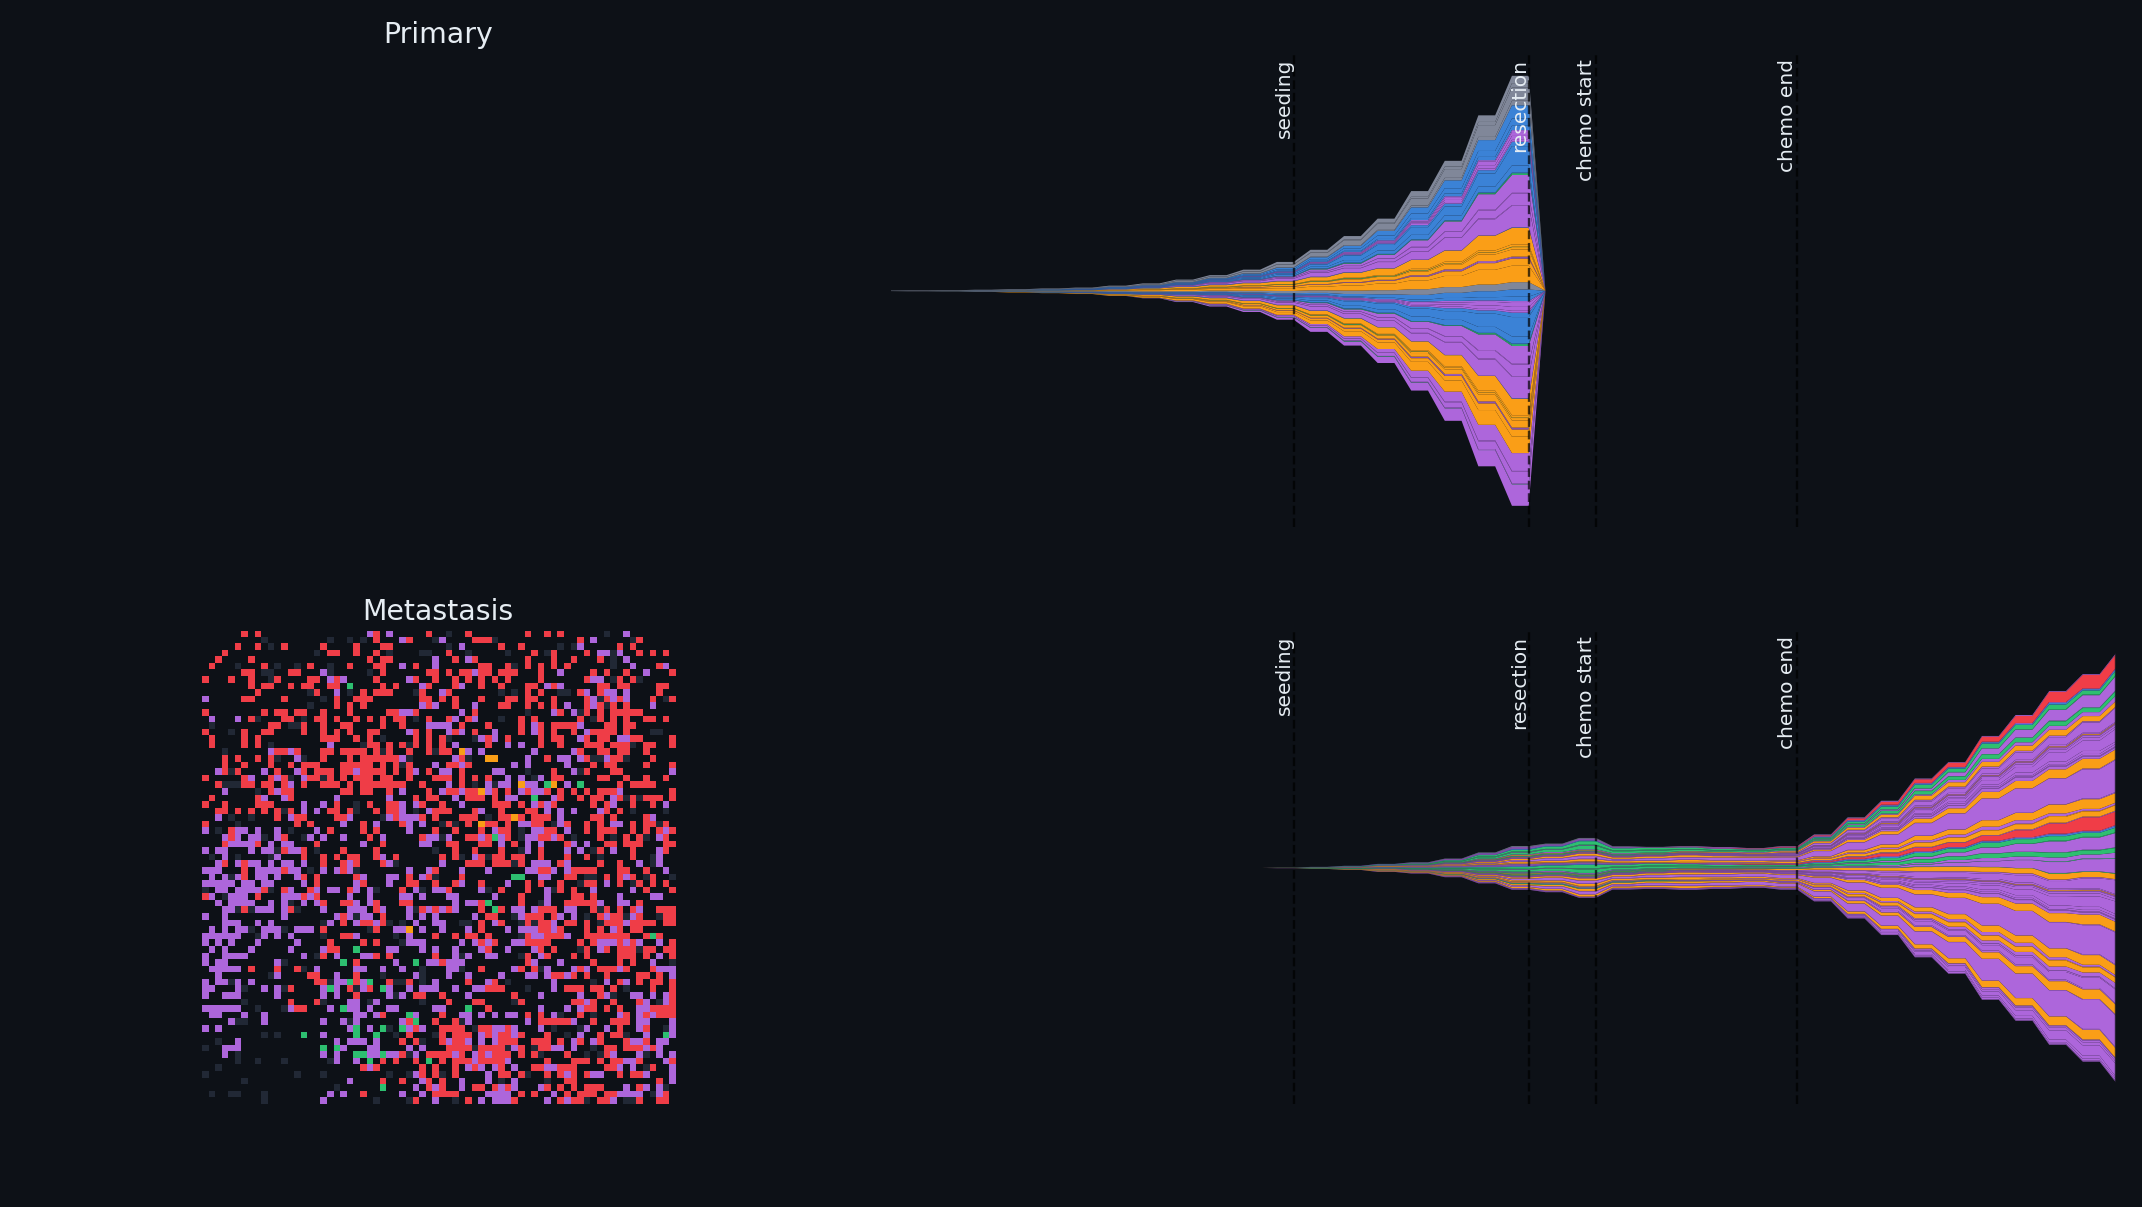
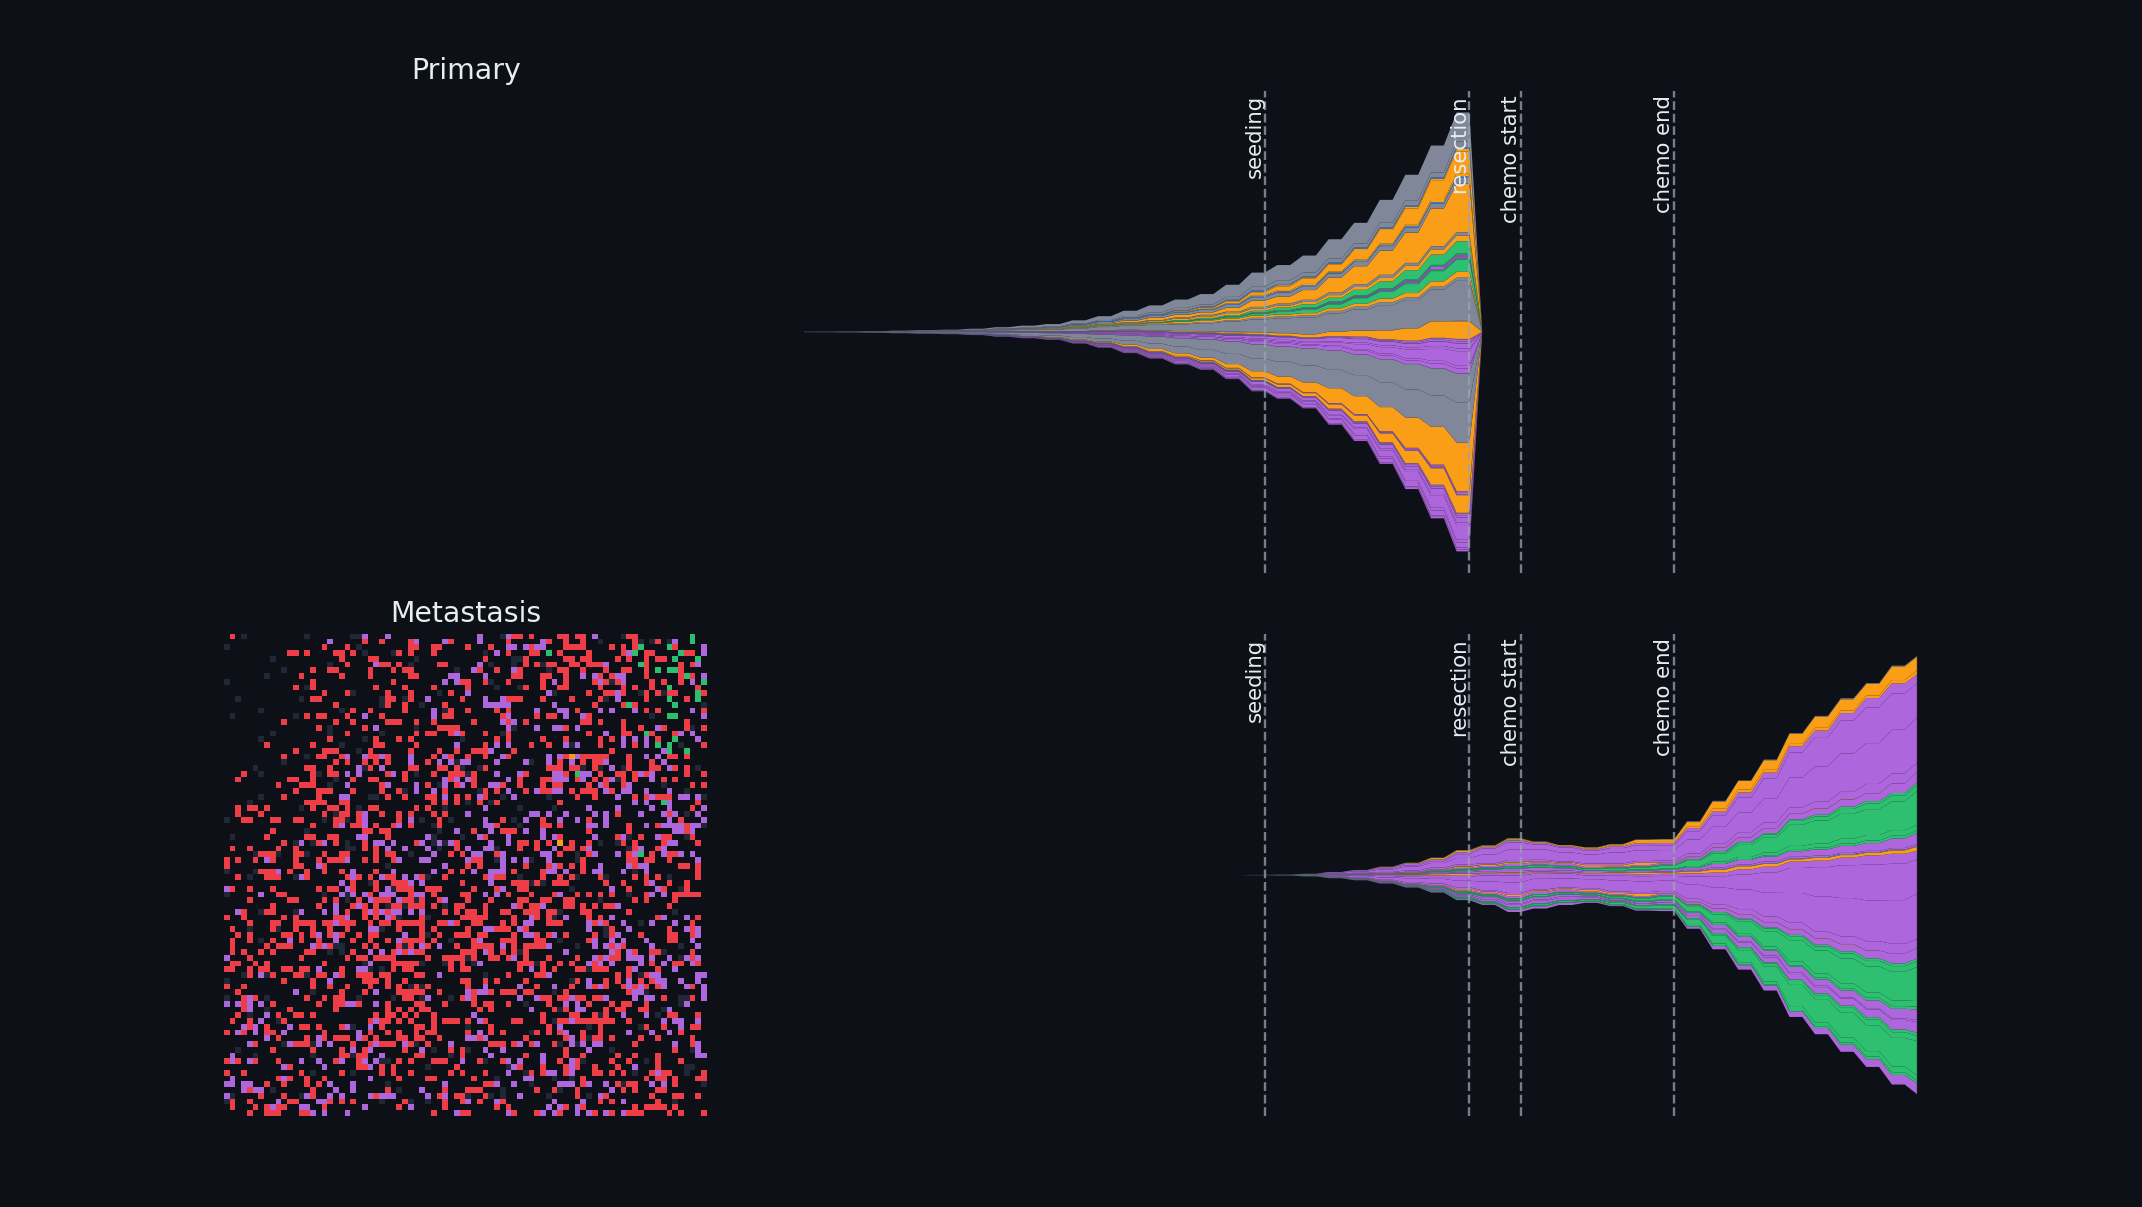
docs(site): splash hero — DCIS phase, centered/equal panels, seamless loop, no axes
Follow-up polish to docs/assets/landing_hero.gif (splash mode only; the general
--splash=False path is unchanged):

- PROPER DCIS PHASE: raised epithelial_barrier 1.2->6.0, lowered prop_breach 0.03->0.012
  and met_seed_kappa 0.07->0.02 so the ducts visibly PACK with cancer (DCIS) for a good
  stretch before a breach subclone escapes into the stroma (IDC) and then seeds the met.
  On-screen order now reads ducts fill -> breach -> stromal invasion -> met seeding ->
  chemo -> relapse (was: cancer breached before the ducts filled). ~45 frames.
- CENTERED + EQUAL PANELS: splash now places the four panels with manual add_axes at
  symmetric rects — two EQUAL square grids (left) and two wide Mullers (right), the whole
  block centered in the canvas (equal left/right & top/bottom margins). Fixes the
  shifted-right look and the smaller metastasis grid.
- NO MULLER AXIS CHROME: ax.axis("off") on the splash Mullers removes the leftover y-axis
  spine (and every other spine/tick/label); only the centered symmetric bands + the event
  vlines (now visible dashed grey) and their labels remain.
- SEAMLESS CONTINUOUS LOOP: uniform per-frame duration (no start/end holds) at ~370 ms,
  ~16.6 s loop.

Full suite green (622 passed); mkdocs build clean; verified the hero is centered, fits one
screen, and plays seamlessly on the Home splash.

diff --git a/notebooks/landing_animation.py b/notebooks/landing_animation.py
@@ -40,8 +40,11 @@ os.makedirs(FRAMES, exist_ok=True)
 
 # ---- config: metastasis_demo.py's arc, scaled up a touch for the story -------------------------
 GENOME = {"n_segments": 12, "segment_size": 50}
+# breach is rarer + the epithelial barrier is HIGH, so the ducts pack full (DCIS) for a good stretch
+# before a breach subclone escapes into the stroma (IDC); met seeding is delayed (met_seed_kappa) so it
+# follows stromal invasion. On-screen order: ducts fill -> breach -> stroma -> met seeding -> chemo -> relapse.
 SELECTION = {"prop_driver": 0.04, "prop_dispersal": 0.0, "prop_immune_resistance": 0.02,
-             "prop_treatment_resistance": 0.03, "prop_breach": 0.03, "prop_stromal_survival": 0.03,
+             "prop_treatment_resistance": 0.03, "prop_breach": 0.012, "prop_stromal_survival": 0.03,
              "prop_met_survival": 0.05, "breach_effects": 2.2, "stromal_survival_effects": 2.2,
              "met_survival_effects": 2.5}
 CANCER = {"division_rate": 0.7, "death_rate": 0.05, "max_birth_rate": 0.95, "mutation_rate": 0.6,
@@ -49,9 +52,9 @@ CANCER = {"division_rate": 0.7, "death_rate": 0.05, "max_birth_rate": 0.95, "mut
 DEME = {"carrying_capacity": 20, "initial_cancer_cells": 8, "resident_pressure_ref": 0.2}
 SPATIAL = {"grid_size": 26, "structure_radius": 3, "n_glands": 4, "gland_radius": 3, "min_gland_sep": 8,
            "K_duct": 40, "K_stroma": 26, "stroma_fill_frac": 0.3, "cross_gland_kappa": 0.06,
-           "epithelial_barrier": 1.2, "stromal_hazard": 0.7,
+           "epithelial_barrier": 6.0, "stromal_hazard": 0.7,
            "met_grid_size": 12, "K_met": 18, "host_fill_frac": 0.35,
-           "met_seed_kappa": 0.07, "met_hazard": 0.45, "met_transit_floor": 0.02}
+           "met_seed_kappa": 0.02, "met_hazard": 0.45, "met_transit_floor": 0.02}
 
 # ---- dark hero aesthetic -----------------------------------------------------------------------
 BG, PANEL, INK, SUBINK, GRID_LINE = "#0d1117", "#161b22", "#e6edf3", "#9aa4b2", "#30363d"
@@ -181,13 +184,24 @@ def build_figure(t, marks, colors, splash=False):
     the reveal cursor over them (no band flicker)."""
     fig = plt.figure(figsize=(12.6, 7.1), dpi=170)          # ~2140 x 1210 px -> crisp when shown large
     fig.patch.set_facecolor(BG)
-    top = 0.955 if splash else 0.865                        # splash has no legend/caption -> use the room
-    gs = GridSpec(2, 2, width_ratios=[1.0, 1.62], height_ratios=[1, 1], hspace=0.22, wspace=0.075,
-                  left=0.028, right=0.988, top=top, bottom=0.085)
-    axp = fig.add_subplot(gs[0, 0])                          # primary grid (top-left)
-    ax_mp = fig.add_subplot(gs[0, 1])                        # primary Muller (top-right)
-    axm = fig.add_subplot(gs[1, 0])                          # metastasis grid (bottom-left)
-    ax_mm = fig.add_subplot(gs[1, 1], sharex=ax_mp)          # metastasis Muller (bottom-right), shared x
+    if splash:
+        # Manual, SYMMETRIC placement: two EQUAL square grids in the left column, two wide Mullers in
+        # the right column, the whole block centered in the canvas (equal left/right & top/bottom
+        # margins). The grid axes are square and IDENTICAL in size, so both grids render the same size.
+        gh = 0.40                                           # grid height (figure fraction)
+        gw = gh * 7.1 / 12.6                                # equal width -> square axes (=> equal grids)
+        mw, gap = 0.52, 0.045                               # Muller width, grid<->Muller gap
+        lw = (1.0 - gw - gap - mw) / 2.0                    # equal L/R margin -> content centered at x=0.5
+        mx, y_top, y_bot = lw + gw + gap, 0.525, 0.075      # rows centered at y=0.5
+        axp = fig.add_axes([lw, y_top, gw, gh])             # primary grid (top-left)
+        ax_mp = fig.add_axes([mx, y_top, mw, gh])           # primary Muller (top-right)
+        axm = fig.add_axes([lw, y_bot, gw, gh])             # metastasis grid (bottom-left)
+        ax_mm = fig.add_axes([mx, y_bot, mw, gh])           # metastasis Muller (bottom-right)
+    else:
+        gs = GridSpec(2, 2, width_ratios=[1.0, 1.62], height_ratios=[1, 1], hspace=0.22, wspace=0.075,
+                      left=0.028, right=0.988, top=0.865, bottom=0.085)
+        axp = fig.add_subplot(gs[0, 0]); ax_mp = fig.add_subplot(gs[0, 1])
+        axm = fig.add_subplot(gs[1, 0]); ax_mm = fig.add_subplot(gs[1, 1], sharex=ax_mp)
 
     # draw the full-arc 2-band Muller once (semantic clone colours; min_freq collapses the passenger
     # rainbow so the sweeps read as bands). Founder-coloured bands -> a band's colour is its clone's.
@@ -200,21 +214,18 @@ def build_figure(t, marks, colors, splash=False):
     for ax, band in ((ax_mp, "primary"), (ax_mm, "metastasis")):
         ax.set_facecolor(BG)                     # axes background == the page colour (no card/seam)
         ax.set_xlim(0, xmax)
+        for ln in ax.lines:                      # event vlines -> visible dashed grey on the dark page
+            ln.set_color(SUBINK); ln.set_alpha(0.75)
+        for txt in ax.texts:                     # recolour the event labels for the dark theme
+            txt.set_color(INK); txt.set_fontsize(9 if splash else 8.5)
         if splash:
-            # NO axis chrome at all — no spines, ticks, y/x labels; just the centered bands + the
-            # event vertical lines and their annotations, sitting directly on the seamless page.
-            for sp in ax.spines.values():
-                sp.set_visible(False)
-            ax.tick_params(left=False, labelleft=False, bottom=False, labelbottom=False)
-            ax.set_ylabel(""); ax.set_xlabel("")
+            ax.axis("off")                       # NO axis chrome whatsoever (no spines/ticks/labels);
+            #                                      the bands + event vlines + their text still render.
         else:
-            # full/general path: a faint bottom+left L with labelled axes.
             for side, sp in ax.spines.items():
                 sp.set_visible(side in ("left", "bottom")); sp.set_color(GRID_LINE)
             ax.tick_params(colors=SUBINK, labelsize=8, length=2.5)
             ax.set_ylabel(f"{band}\ncells", color=SUBINK, fontsize=9.5)
-        for txt in ax.texts:                     # recolour the event labels for the dark theme
-            txt.set_color(INK); txt.set_fontsize(8.5)
     if not splash:
         ax_mp.set_xlabel(""); ax_mp.tick_params(labelbottom=False)   # only the bottom Muller carries x
         ax_mm.set_xlabel("tumour time (snapshot) — seeding · resection · chemotherapy annotated",
@@ -287,7 +298,7 @@ def main(splash=False):
         cursor_artists.clear()
         for ax in (ax_mp, ax_mm):
             cursor_artists.append(ax.axvspan(tl, xmax, color=BG, alpha=0.82, zorder=5))
-            cursor_artists.append(ax.axvline(tl, color="#f0f6fc", lw=1.8, alpha=0.95, zorder=6))
+            cursor_artists.append(ax.axvline(tl, color="#c9d1d9", lw=1.1, alpha=0.55, zorder=6))
         if caption is not None:
             caption.set_text({
                 "growth": "① proliferation in the ducts (DCIS)",
@@ -307,9 +318,9 @@ def main(splash=False):
         if fi % 10 == 0:
             print(f"  frame {fi+1}/{len(frames)}  ({time.time()-t0:.0f}s)")
     if splash:
-        # UNIFORM slow cadence (~3 fps, ~17 s loop): every frame the same duration so the loop is
-        # seamless — no dwell at the DCIS start or the relapsed end.
-        per = [450] * len(imgs)
+        # UNIFORM slow cadence, ~17 s loop regardless of frame count: every frame the same duration so
+        # the loop is seamless — no dwell at the DCIS start or the relapsed end.
+        per = [max(300, round(17000 / len(imgs)))] * len(imgs)
     else:
         # general path: ~6 fps with a short hold on the first/last frames so the loop reads.
         per = [170] * len(imgs)
